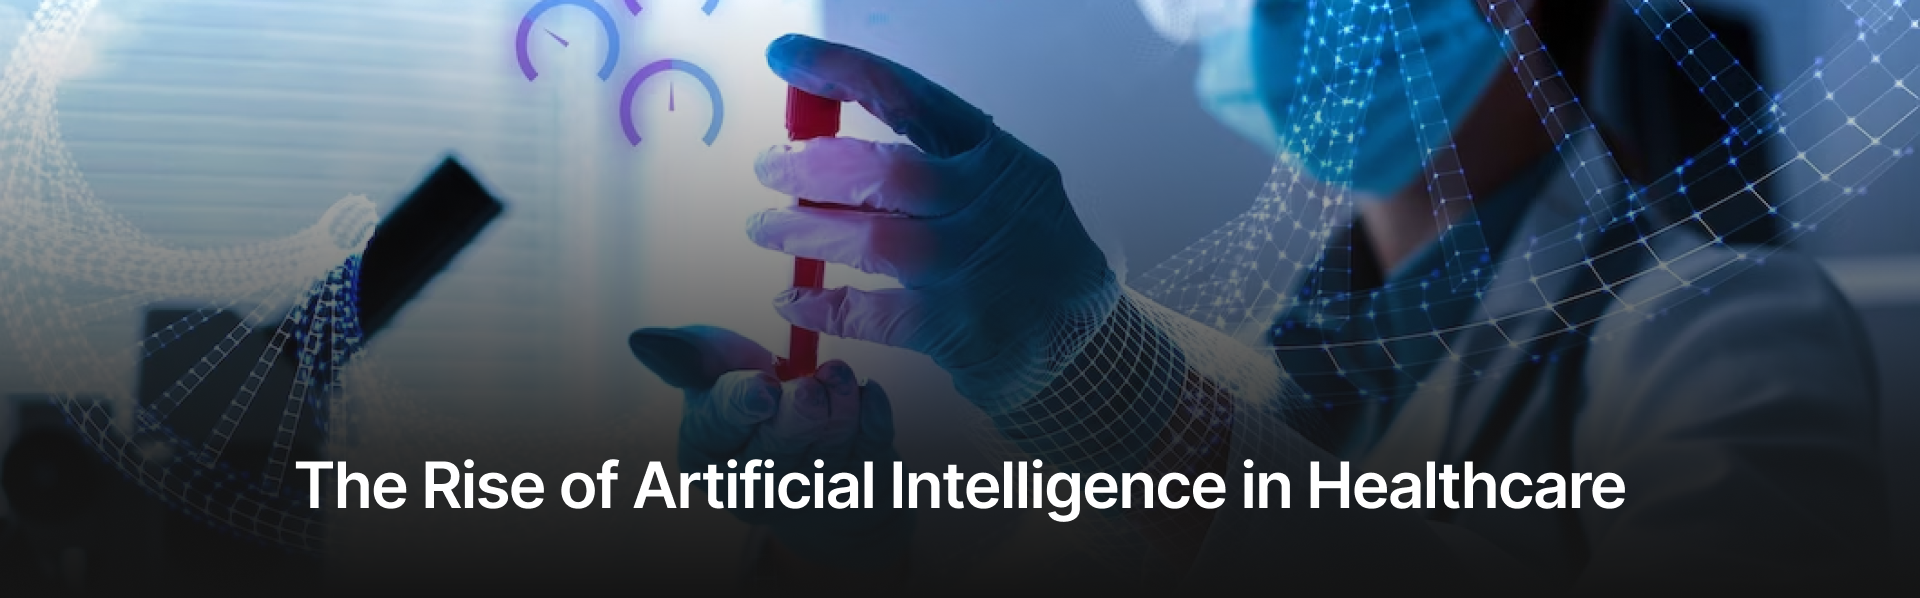
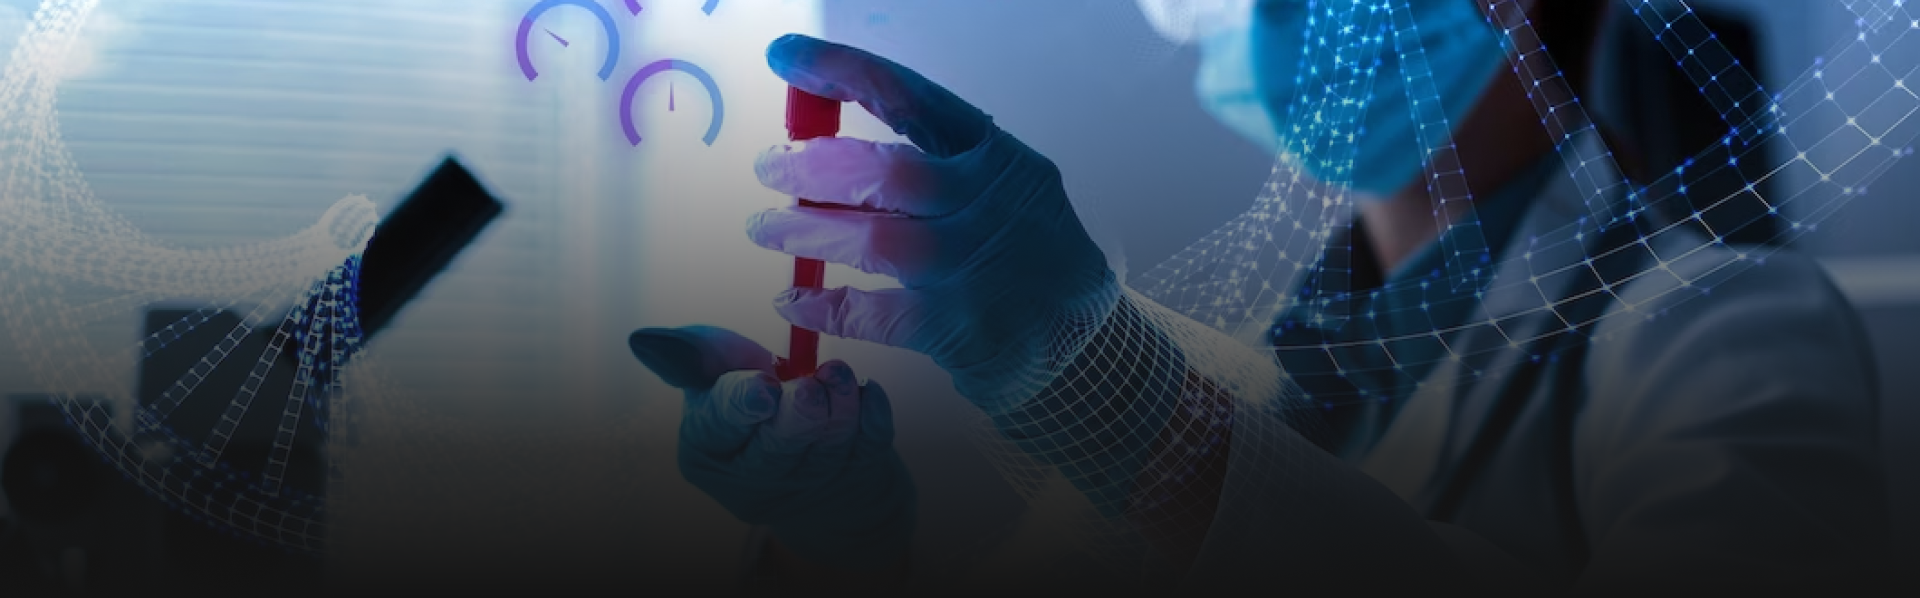
blog image

Changed region(s): [[0.1562, 0.7525, 0.8438, 0.8729]]

diff --git a/components/BlogPost.jsx b/components/BlogPost.jsx
@@ -1,0 +1,52 @@
+import assets from "@/assets/assets";
+import Image from "next/image";
+import React from "react";
+
+const Page = ({ params }) => {
+    return (
+        <div className="  ">
+            <div>
+                <Image
+                    src={assets.blogImg1}
+                    alt="Blog Image"
+                    className="md:h-[500px] object-cover h-[281px] px-0 my-1 md:my-0 border-b border-gray-600 md:border-none"
+                />
+                <h1 className="text-center absolute top-[300px] font-bold text-3xl md:text-5xl md:absolute md:left-[293px] md:top-[520px] ">
+                    The Rise of Artificial Intelligence in Healthcare
+                </h1>
+            </div>
+            {/* blog content */}
+            <div className="flex h-screen border-b border-zinc-600 mb-40">
+                <div className="flex-[2] border-r border-zinc-600">
+                    <div className="border-b border-zinc-600">
+                        <h1>Introduction</h1>
+                        <p>
+                            Lorem ipsum, dolor sit amet consectetur adipisicing elit. Odio nulla iste deserunt blanditiis
+                            aliquid explicabo magni assumenda, itaque dicta accusamus recusandae obcaecati ut quasi earum
+                            quia. Reprehenderit nulla fugit accusamus.
+                        </p>
+                    </div>
+                    <div>
+                        <h1>Artificial Intelligence AI</h1>
+                        <p>
+                            Lorem ipsum dolor sit amet consectetur adipisicing elit. Commodi similique, architecto tenetur
+                            quos, modi veniam ipsa cupiditate officia expedita sit suscipit quas vel doloremque facere.
+                            Explicabo sint nemo aliquam odio! Repellendus, magni? Tempore ipsum adipisci quae
+                            exercitationem, nulla delectus ex in quam magni earum dolorum eos repudiandae nostrum voluptas
+                            ut quaerat, eaque modi voluptatem quibusdam eligendi doloribus impedit nesciunt officiis. Optio
+                            dolore quod deserunt vel laboriosam, voluptatibus aliquam eius? Deleniti recusandae modi itaque
+                            culpa nobis in alias quod beatae maiores expedita consectetur labore numquam quo, minus qui
+                            nisi, dolorem quaerat. Dignissimos nobis temporibus quam sapiente qui vero error dolores magni,
+                            quis molestias, accusamus distinctio quisquam. Quia aut praesentium sint culpa tempora minima
+                            repellat enim nulla placeat beatae. Maiores, dolorum cum? Voluptate saepe sunt tenetur eaque eos
+                            minima
+                        </p>
+                    </div>
+                </div>
+                <div className="flex-1">right</div>
+            </div>
+        </div>
+    );
+};
+
+export default Page;

diff --git a/components/Header.jsx b/components/Header.jsx
@@ -12,9 +12,9 @@ const Header = () => {
     };
 
     return (
-        <div className="flex flex-col m-1">
-            <div className="flex flex-col sm:flex-row items-center justify-center text-center lg:p-4 sm:p-2">
-                <p className="lg:text-lg text-sm sm:text-base hover:text-yellow-400">
+        <header className="sticky top-0 z-50 bg-black flex flex-col">
+            <div className="flex flex-col sm:flex-row items-center justify-center text-center lg:p-2 sm:p-2">
+                <p className="text-sm font-light sm:text-base hover:text-yellow-400">
                     Subscribe to our Newsletter For New & Latest Blogs and Resources
                 </p>
                 <Image
@@ -24,10 +24,10 @@ const Header = () => {
                 />
             </div>
             <div className="flex justify-between items-center bg-zinc-900 px-5 py-5 lg:px-20">
-                <Image src={assets.logo} alt="logo" width={"200"} className="w-[130px] sm:w-auto sm:ml-0" />
+                <Image src={assets.logo} alt="logo" className="w-[130px] md:w-[140px]  sm:ml-0" width={"180"}/>
 
                 <nav
-                    className={`md:flex mr-15 md:gap-10 text-[25px] text-white ${
+                    className={`md:flex mr-15 md:gap-10 text-[20px] text-white ${
                         isMenuOpen ? "flex flex-col absolute top-40 left-1/2 transform -translate-x-1/2" : "hidden"
                     } `}
                 >
@@ -57,7 +57,7 @@ const Header = () => {
                     onClick={toggleMenu}
                 />
             </div>
-        </div>
+        </header>
     );
 };
 

diff --git a/assets/assets.js b/assets/assets.js
@@ -1,9 +1,11 @@
-import logo from '../assets/Logo.png'
-import subscribeIcon from '../assets/Icon.png'
-import mobileIcon from '../assets/mobile-Icon.png'
+import logo from "../assets/Logo.png";
+import subscribeIcon from "../assets/Icon.png";
+import mobileIcon from "../assets/mobile-Icon.png";
+import blogImg1 from "../assets/blog-img-1.png";
 
 export default {
     logo,
     subscribeIcon,
-    mobileIcon
-}
+    mobileIcon,
+    blogImg1,
+};

diff --git a/app/page.js b/app/page.js
@@ -1,11 +1,11 @@
+"use client";
 import Header from "@/components/Header";
 import Test from "@/components/Test";
 
 export default function Home() {
     return (
         <>
-            <Header />
-            {/* <Test /> */}
+            home page for first login to home page
         </>
     );
 }

diff --git a/app/(root)/layout.jsx b/app/(root)/layout.jsx
@@ -1,0 +1,12 @@
+import Header from "@/components/Header";
+
+const layout = ({ children }) => {
+    return (
+        <main>
+            <Header />
+            {children}
+        </main>
+    );
+};
+
+export default layout;

diff --git a/app/(root)/home/page.jsx b/app/(root)/home/page.jsx
@@ -1,0 +1,12 @@
+import Header from "@/components/Header.jsx";
+import React from "react";
+
+const page = () => {
+    return (
+        <div>
+            Home page
+        </div>
+    );
+};
+
+export default page;

diff --git a/app/(root)/blogPage/[id]/page.jsx b/app/(root)/blogPage/[id]/page.jsx
@@ -1,0 +1,12 @@
+import React from 'react'
+import BlogPost from '@/components/BlogPost'
+
+const page = () => {
+  return (
+    <div>
+      <BlogPost />
+    </div>
+  )
+}
+
+export default page

diff --git a/app/(root)/page.jsx b/app/(root)/page.jsx
@@ -1,0 +1,9 @@
+import React from 'react'
+
+const page = () => {
+  return (
+    <div>page for home page</div>
+  )
+}
+
+export default page

diff --git a/components/Footer.jsx b/components/Footer.jsx
@@ -1,0 +1,9 @@
+import React from 'react'
+
+const Footer = () => {
+  return (
+    <div>Footer</div>
+  )
+}
+
+export default Footer
